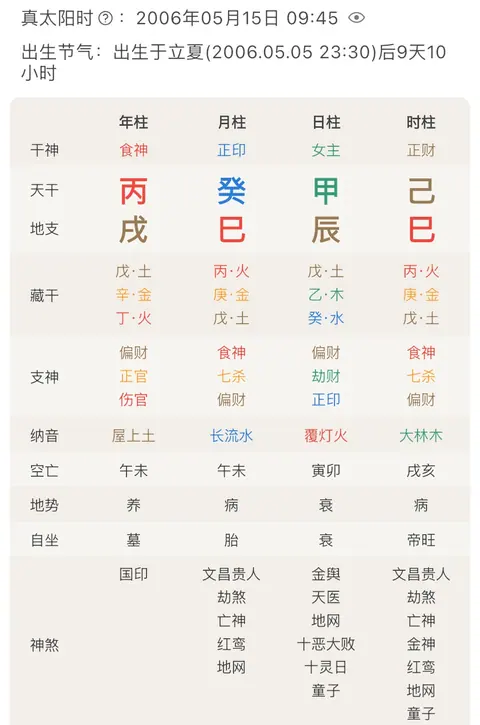
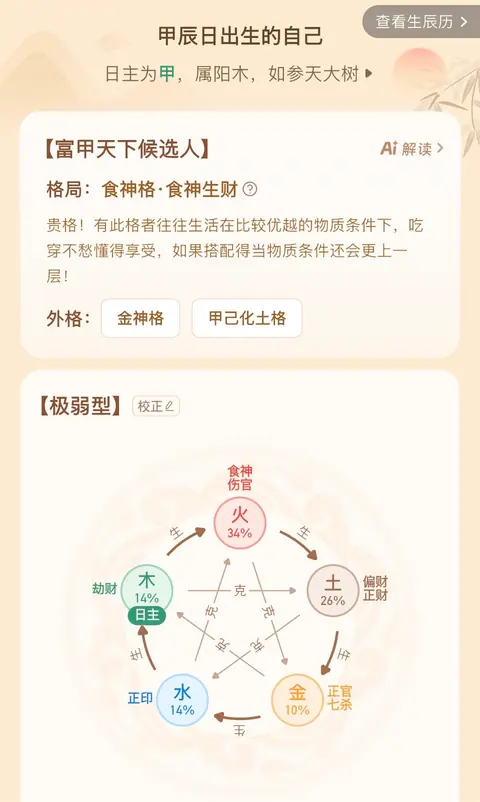
Harden public contact and life details (#2)

diff --git a/项目.md b/项目.md
@@ -143,6 +143,8 @@ npm test
 - 新增图片必须提供准确 `alt`；装饰图使用空 `alt` 或 `aria-hidden`。
 - 图片和视频应先生成适合网页的衍生文件，保留合理尺寸与体积；不得覆盖本地原始母版。
 - 修改联系信息、简历信息、二维码或包含第三方人物的资料前，必须再次确认公开范围。
+- 个人联系方式优先使用明确获准公开、可独立维护的邮箱或公众账号，不把手机号等私人标识嵌入公开联系方式。
+- 隐私测试应检查敏感信息的类别、标签或格式，不得为了断言“页面不存在”而把待保护的精确值写进公开测试。
 - 任何内容改动都要检查是否需要同步页面描述、canonical、sitemap、OG 图和相关测试。
 
 ## 7. 页面与设计修改规范
